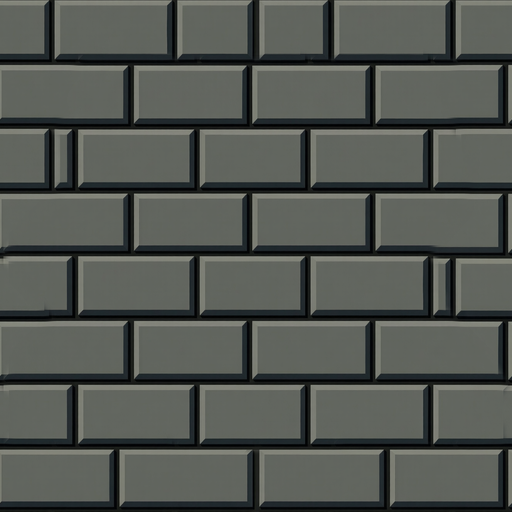
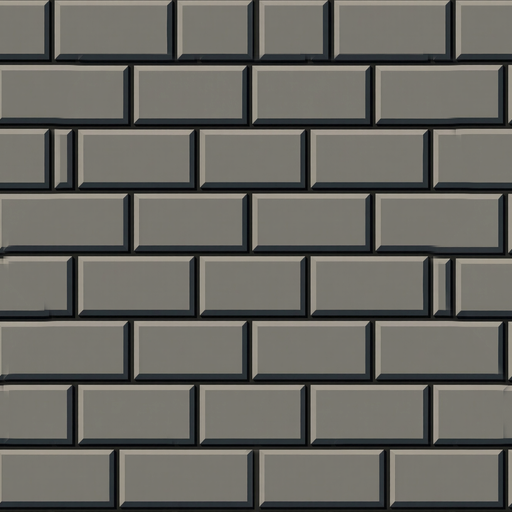
four tiles graded as the castle's was (Jeff, 2026-10-19: "tone 8 approved, good improvement"; the coordinator's (2), one landing): each toward its capsule-day colour (Client3D's WALL_LOOKS, FLOOR_SWATCHES, ROOF_SWATCH) per channel in linear light at the castle's lit level, never darker, a soft shoul

Changed region(s): [[0.0, 0.0, 1.0, 1.0]]

diff --git a/THIRD_PARTY.md b/THIRD_PARTY.md
@@ -16,7 +16,7 @@ also writes `docs/art_status.md`; `art_kit_test` fails while either is out of da
 |--------|---------|-------|---------------------|
 | [Castle Kit 2.0, Kenney](https://kenney.nl/assets/castle-kit) | CC0 1.0 (`art/kenney-castle/License.txt`) | `art/kenney-castle/Models/GLB format/` | none now |
 
-Slots whose own art came from someone else: material.wall.castle (art-gen, re-graded by art-kit, own), floor.castle (art-gen, own), wall.castle.straight (art-gen, fitted by art-kit, own), wall.castle.straight_low (art-gen, fitted by art-kit, own), wall.castle.straight_tall (art-gen, fitted by art-kit, own), wall.castle.end (art-gen, fitted by art-kit, own), wall.castle.end_low (art-gen, fitted by art-kit, own), wall.castle.end_tall (art-gen, fitted by art-kit, own), wall.castle.corner (art-gen, fitted by art-kit, own), wall.castle.corner_low (art-gen, fitted by art-kit, own), wall.castle.corner_tall (art-gen, fitted by art-kit, own), wall.castle.t (art-gen, fitted by art-kit, own), wall.castle.t_low (art-gen, fitted by art-kit, own), wall.castle.t_tall (art-gen, fitted by art-kit, own), wall.castle.cross (art-gen, fitted by art-kit, own), wall.castle.cross_low (art-gen, fitted by art-kit, own), wall.castle.cross_tall (art-gen, fitted by art-kit, own), wall.castle.post (art-gen, fitted by art-kit, own), wall.castle.post_low (art-gen, fitted by art-kit, own), wall.castle.post_tall (art-gen, fitted by art-kit, own), wall.castle.window (art-gen, fitted by art-kit, own), wall.castle.straight_ruined (art-gen, fitted by art-kit, own), wall.castle.end_ruined (art-gen, fitted by art-kit, own), wall.castle.rubble (art-gen, fitted by art-kit, own), material.wall.wood (art-gen, own), material.roof.shingle (art-gen, procedural (no model), own), material.roof.thatch (art-kit, procedural, own), roof.thatch.ridge (art-kit, by hand, own), roof.thatch.eave (art-kit, by hand, own), roof.shingle.ridge (art-gen, fitted by art-kit, own), roof.shingle.end (art-gen, fitted by art-kit, own), roof.shingle.broken (art-kit, own), chimney.stone (art-kit, by hand, own), porch.timber (art-kit, by hand, own), porch.timber_wide (art-kit, by hand, own), frame.cruck (art-kit, by hand, own), floor.wood (art-gen, own), wall.wood.straight (art-gen, fitted by art-kit, own), wall.wood.end (art-gen, fitted by art-kit, own), wall.wood.corner (art-gen, fitted by art-kit, own), wall.wood.t (art-gen, fitted by art-kit, own), wall.wood.cross (art-gen, fitted by art-kit, own), wall.wood.post (art-gen, fitted by art-kit, own), wall.wood.window (art-gen, fitted by art-kit, own), wall.wood.straight_ruined (art-gen, fitted by art-kit, own), wall.wood.rubble (art-gen, fitted by art-kit, own), material.wall.stone (art-gen, own), floor.stone (art-gen, own), wall.stone.straight (art-gen, fitted by art-kit, own), wall.stone.end (art-gen, fitted by art-kit, own), wall.stone.corner (art-gen, fitted by art-kit, own), wall.stone.t (art-gen, fitted by art-kit, own), wall.stone.cross (art-gen, fitted by art-kit, own), wall.stone.post (art-gen, fitted by art-kit, own), wall.stone.straight_tall (art-gen, fitted by art-kit, own), wall.stone.end_tall (art-gen, fitted by art-kit, own), wall.stone.corner_tall (art-gen, fitted by art-kit, own), wall.stone.t_tall (art-gen, fitted by art-kit, own), wall.stone.cross_tall (art-gen, fitted by art-kit, own), wall.stone.post_tall (art-gen, fitted by art-kit, own), wall.stone.straight_low (art-gen, fitted by art-kit, own), wall.stone.end_low (art-gen, fitted by art-kit, own), wall.stone.post_low (art-gen, fitted by art-kit, own), wall.stone.window (art-gen, fitted by art-kit, own), wall.stone.straight_ruined (art-gen, fitted by art-kit, own), wall.stone.end_ruined (art-gen, fitted by art-kit, own), wall.stone.rubble (art-gen, fitted by art-kit, own), material.wall.cave (art-gen, own), floor.cave (art-gen, own), wall.cave.end (art-gen, fitted by art-kit, own), wall.cave.pillar (art-gen, fitted by art-kit, own), wall.cave.rubble (art-gen, fitted by art-kit, own), wall.castle.tower (art-gen, fitted by art-kit, own), wall.stone.tower (art-gen, fitted by art-kit, own), wall.wood.tower (art-gen, fitted by art-kit, own), door.single (art-kit, own), tree.broadleaf (art-gen, fitted by art-kit, own), tree.small (art-gen, fitted by art-kit (variant 1); art-kit by hand (2, 3), own), tree.pine (art-gen, fitted by art-kit, own), tree.pine_stand (art-kit, from tree.pine's art-gen variants, own), rock.small (art-gen, fitted by art-kit, own), scatter.tuft (art-gen, fitted by art-kit, own), scatter.flower (art-kit, by hand to art-gen's c4, own), scatter.stone (art-gen, fitted by art-kit, own), scatter.root (art-gen, fitted by art-kit, own), prop.crate (art-kit, by hand, own), prop.chest (art-kit, by hand, own), rock.boulder (art-gen, fitted by art-kit, own), prop.cart (art-gen, fitted by art-kit, own), building.hut (art-kit, by hand, own), building.house (art-gen, fitted by art-kit, own), building.shed (art-gen, fitted by art-kit, own), building.well (art-kit, by hand, own), door.double (art-gen, fitted by art-kit, own), door.gate (art-gen, fitted by art-kit, own), door.portcullis (art-gen, fitted by art-kit, own), door.trapdoor (art-gen, fitted by art-kit, own), tree.dead (art-gen, fitted by art-kit, own), tree.stump (art-gen, cleaned up by art-kit, own), tree.log (art-gen, fitted by art-kit, own), plant.bush (art-gen, fitted by art-kit, own), plant.fern (art-gen, fitted by art-kit, own), scatter.reeds (art-kit, by hand to art-gen's c1, own), rock.large (art-gen, fitted by art-kit, own), prop.barrel (art-kit, by hand, own), prop.torch (art-gen, fitted by art-kit, own), prop.torch_post (art-kit, by hand, own), prop.lantern (art-gen, fitted by art-kit, own), prop.campfire (art-gen, fitted by art-kit, own), prop.fence (art-gen, fitted by art-kit, own), prop.fence_post (art-gen, fitted by art-kit, own), prop.stairs (art-gen, fitted by art-kit, own), prop.table (art-kit, by hand, own), prop.bench (art-gen, fitted by art-kit, own), prop.bed (art-kit, by hand, own), prop.sack (art-gen, fitted by art-kit, own), prop.grave (art-gen, fitted by art-kit, own), prop.anvil (art-gen, fitted by art-kit, own), prop.forge (art-kit, by hand, own), prop.bookshelf (art-kit, by hand, own), prop.market_stall (art-gen, fitted by art-kit, own), prop.signpost (art-kit, by hand, own), prop.banner (art-gen, fitted by art-kit, own), prop.tent (art-gen, fitted by art-kit, own), prop.palisade (art-gen, fitted by art-kit, own), prop.cage (art-gen, fitted by art-kit, own), prop.bridge (art-gen, fitted by art-kit, own), bridge.wood.deck (art-kit, by hand, own), bridge.wood.rail (art-kit, by hand, own), bridge.wood.end (art-kit, by hand, own), prop.ladder (art-gen, fitted by art-kit, own), creature.deer (Quaternius (mesh, rig and clips), pc-character (fitted to the slot, recoloured onto the palette), CC0 1.0 (Quaternius, Ultimate Animated Animal Pack: Deer, docs/licenses/quaternius-cc0_2026-10-15.txt)), creature.stag (Quaternius (mesh, rig and clips), pc-character (fitted to the slot, recoloured onto the palette), CC0 1.0 (Quaternius, Ultimate Animated Animal Pack: Stag, docs/licenses/quaternius-cc0_2026-10-15.txt)), creature.wolf (Quaternius (mesh, rig and clips), pc-character (fitted to the slot, recoloured onto the palette), CC0 1.0 (Quaternius, Ultimate Animated Animal Pack: Wolf, docs/licenses/quaternius-cc0_2026-10-15.txt)), creature.boar (art-gen (mesh), pc-character (rig fit); rig and clips Quaternius, own (mesh); CC0 1.0 (the Quaternius Pig's rig and clips, docs/licenses/quaternius-cc0_2026-10-15.txt)), creature.cow (Quaternius (mesh, rig and clips), pc-character (fitted to the slot, recoloured onto the palette), CC0 1.0 (Quaternius, Ultimate Animated Animal Pack: Cow; variant 2 Bull, docs/licenses/quaternius-cc0_2026-10-15.txt)), creature.pig (art-gen (the boar's mesh), pc-character (rig fit; made a farm pig by tools/pig_from_boar.py), own (mesh); CC0 1.0 (the Quaternius Pig's rig and clips, docs/licenses/quaternius-cc0_2026-10-15.txt)), creature.horse (Quaternius (mesh, rig and clips), pc-character (fitted to the slot, recoloured onto the palette), CC0 1.0 (Quaternius, Ultimate Animated Animal Pack: Horse; variant 2 Horse_White, docs/licenses/quaternius-cc0_2026-10-15.txt)), creature.donkey (Quaternius (mesh, rig and clips), pc-character (fitted to the slot, recoloured onto the palette), CC0 1.0 (Quaternius, Ultimate Animated Animal Pack: Donkey, docs/licenses/quaternius-cc0_2026-10-15.txt)), creature.dog (Quaternius (mesh, rig and clips), pc-character (fitted to the slot, recoloured onto the palette), CC0 1.0 (Quaternius, Ultimate Animated Animal Pack: Husky; variant 2 ShibaInu, docs/licenses/quaternius-cc0_2026-10-15.txt)), creature.rabbit (art-gen (mesh), pc-character (rig and clips), own), creature.orc (art-gen (mesh and paint), pc-character (rig fit), own (mesh and paint); CC0 1.0 (the UAL skeleton and clips, Quaternius)), creature.kobold (art-gen (mesh and paint), pc-character (rig fit), own (mesh and paint); CC0 1.0 (the UAL skeleton and clips, Quaternius)), ground.dirt (art-kit, procedural, own), ground.sand (art-gen, procedural, own), fx.arrow (art-kit, own), ground.needles (art-gen, procedural (no model), own), material.rock (art-gen, own), item.antlers (art-gen, fitted by art-kit, own), item.arrows (art-gen, procedural (no model); fitted by art-kit, own), item.arrows_barbed (art-gen, procedural (no model); fitted by art-kit, own), item.arrows_flame (art-gen, procedural (no model); fitted by art-kit, own), item.axe_head (art-gen, fitted by art-kit, own), item.bandaging_kit (art-gen, fitted by art-kit, own), item.bow (art-kit, by hand from art-gen's c2, own), item.cloth_bolt (art-gen, fitted by art-kit, own), item.coin_purse (art-gen, fitted by art-kit, own), item.dagger (art-gen, fitted by art-kit, own), item.food_sack (art-gen, fitted by art-kit, own), item.giant_axe (art-gen, fitted by art-kit, own), item.hammer (art-gen, fitted by art-kit, own), item.herbs (art-kit, by hand, own), item.hide (art-gen, fitted by art-kit, own), item.knife (art-gen, fitted by art-kit, own), item.meat (art-gen, fitted by art-kit, own), item.nails (art-gen, fitted by art-kit, own), item.ore_sack (art-gen, fitted by art-kit, own), item.ration (art-gen, fitted by art-kit, own), item.remedy (art-kit, by hand, own), item.shield (art-gen, fitted by art-kit, own), item.silver_ring (art-kit, by hand, own), item.spear (art-gen, fitted by art-kit, own), item.spice (art-kit, by hand, own), item.sword (art-gen, fitted by art-kit, own), item.tusks (art-gen, fitted by art-kit, own), item.wine (art-kit, by hand, own), item.wood_bundle (art-gen, fitted by art-kit, own).
+Slots whose own art came from someone else: material.wall.castle (art-gen, re-graded by art-kit, own), floor.castle (art-gen, own), wall.castle.straight (art-gen, fitted by art-kit, own), wall.castle.straight_low (art-gen, fitted by art-kit, own), wall.castle.straight_tall (art-gen, fitted by art-kit, own), wall.castle.end (art-gen, fitted by art-kit, own), wall.castle.end_low (art-gen, fitted by art-kit, own), wall.castle.end_tall (art-gen, fitted by art-kit, own), wall.castle.corner (art-gen, fitted by art-kit, own), wall.castle.corner_low (art-gen, fitted by art-kit, own), wall.castle.corner_tall (art-gen, fitted by art-kit, own), wall.castle.t (art-gen, fitted by art-kit, own), wall.castle.t_low (art-gen, fitted by art-kit, own), wall.castle.t_tall (art-gen, fitted by art-kit, own), wall.castle.cross (art-gen, fitted by art-kit, own), wall.castle.cross_low (art-gen, fitted by art-kit, own), wall.castle.cross_tall (art-gen, fitted by art-kit, own), wall.castle.post (art-gen, fitted by art-kit, own), wall.castle.post_low (art-gen, fitted by art-kit, own), wall.castle.post_tall (art-gen, fitted by art-kit, own), wall.castle.window (art-gen, fitted by art-kit, own), wall.castle.straight_ruined (art-gen, fitted by art-kit, own), wall.castle.end_ruined (art-gen, fitted by art-kit, own), wall.castle.rubble (art-gen, fitted by art-kit, own), material.wall.wood (art-gen, own), material.roof.shingle (art-gen, procedural (no model), own), material.roof.thatch (art-kit, procedural, re-graded by art-kit, own), roof.thatch.ridge (art-kit, by hand, own), roof.thatch.eave (art-kit, by hand, own), roof.shingle.ridge (art-gen, fitted by art-kit, own), roof.shingle.end (art-gen, fitted by art-kit, own), roof.shingle.broken (art-kit, own), chimney.stone (art-kit, by hand, own), porch.timber (art-kit, by hand, own), porch.timber_wide (art-kit, by hand, own), frame.cruck (art-kit, by hand, own), floor.wood (art-gen, re-graded by art-kit, own), wall.wood.straight (art-gen, fitted by art-kit, own), wall.wood.end (art-gen, fitted by art-kit, own), wall.wood.corner (art-gen, fitted by art-kit, own), wall.wood.t (art-gen, fitted by art-kit, own), wall.wood.cross (art-gen, fitted by art-kit, own), wall.wood.post (art-gen, fitted by art-kit, own), wall.wood.window (art-gen, fitted by art-kit, own), wall.wood.straight_ruined (art-gen, fitted by art-kit, own), wall.wood.rubble (art-gen, fitted by art-kit, own), material.wall.stone (art-gen, re-graded by art-kit, own), floor.stone (art-gen, re-graded by art-kit, own), wall.stone.straight (art-gen, fitted by art-kit, own), wall.stone.end (art-gen, fitted by art-kit, own), wall.stone.corner (art-gen, fitted by art-kit, own), wall.stone.t (art-gen, fitted by art-kit, own), wall.stone.cross (art-gen, fitted by art-kit, own), wall.stone.post (art-gen, fitted by art-kit, own), wall.stone.straight_tall (art-gen, fitted by art-kit, own), wall.stone.end_tall (art-gen, fitted by art-kit, own), wall.stone.corner_tall (art-gen, fitted by art-kit, own), wall.stone.t_tall (art-gen, fitted by art-kit, own), wall.stone.cross_tall (art-gen, fitted by art-kit, own), wall.stone.post_tall (art-gen, fitted by art-kit, own), wall.stone.straight_low (art-gen, fitted by art-kit, own), wall.stone.end_low (art-gen, fitted by art-kit, own), wall.stone.post_low (art-gen, fitted by art-kit, own), wall.stone.window (art-gen, fitted by art-kit, own), wall.stone.straight_ruined (art-gen, fitted by art-kit, own), wall.stone.end_ruined (art-gen, fitted by art-kit, own), wall.stone.rubble (art-gen, fitted by art-kit, own), material.wall.cave (art-gen, own), floor.cave (art-gen, own), wall.cave.end (art-gen, fitted by art-kit, own), wall.cave.pillar (art-gen, fitted by art-kit, own), wall.cave.rubble (art-gen, fitted by art-kit, own), wall.castle.tower (art-gen, fitted by art-kit, own), wall.stone.tower (art-gen, fitted by art-kit, own), wall.wood.tower (art-gen, fitted by art-kit, own), door.single (art-kit, own), tree.broadleaf (art-gen, fitted by art-kit, own), tree.small (art-gen, fitted by art-kit (variant 1); art-kit by hand (2, 3), own), tree.pine (art-gen, fitted by art-kit, own), tree.pine_stand (art-kit, from tree.pine's art-gen variants, own), rock.small (art-gen, fitted by art-kit, own), scatter.tuft (art-gen, fitted by art-kit, own), scatter.flower (art-kit, by hand to art-gen's c4, own), scatter.stone (art-gen, fitted by art-kit, own), scatter.root (art-gen, fitted by art-kit, own), prop.crate (art-kit, by hand, own), prop.chest (art-kit, by hand, own), rock.boulder (art-gen, fitted by art-kit, own), prop.cart (art-gen, fitted by art-kit, own), building.hut (art-kit, by hand, own), building.house (art-gen, fitted by art-kit, own), building.shed (art-gen, fitted by art-kit, own), building.well (art-kit, by hand, own), door.double (art-gen, fitted by art-kit, own), door.gate (art-gen, fitted by art-kit, own), door.portcullis (art-gen, fitted by art-kit, own), door.trapdoor (art-gen, fitted by art-kit, own), tree.dead (art-gen, fitted by art-kit, own), tree.stump (art-gen, cleaned up by art-kit, own), tree.log (art-gen, fitted by art-kit, own), plant.bush (art-gen, fitted by art-kit, own), plant.fern (art-gen, fitted by art-kit, own), scatter.reeds (art-kit, by hand to art-gen's c1, own), rock.large (art-gen, fitted by art-kit, own), prop.barrel (art-kit, by hand, own), prop.torch (art-gen, fitted by art-kit, own), prop.torch_post (art-kit, by hand, own), prop.lantern (art-gen, fitted by art-kit, own), prop.campfire (art-gen, fitted by art-kit, own), prop.fence (art-gen, fitted by art-kit, own), prop.fence_post (art-gen, fitted by art-kit, own), prop.stairs (art-gen, fitted by art-kit, own), prop.table (art-kit, by hand, own), prop.bench (art-gen, fitted by art-kit, own), prop.bed (art-kit, by hand, own), prop.sack (art-gen, fitted by art-kit, own), prop.grave (art-gen, fitted by art-kit, own), prop.anvil (art-gen, fitted by art-kit, own), prop.forge (art-kit, by hand, own), prop.bookshelf (art-kit, by hand, own), prop.market_stall (art-gen, fitted by art-kit, own), prop.signpost (art-kit, by hand, own), prop.banner (art-gen, fitted by art-kit, own), prop.tent (art-gen, fitted by art-kit, own), prop.palisade (art-gen, fitted by art-kit, own), prop.cage (art-gen, fitted by art-kit, own), prop.bridge (art-gen, fitted by art-kit, own), bridge.wood.deck (art-kit, by hand, own), bridge.wood.rail (art-kit, by hand, own), bridge.wood.end (art-kit, by hand, own), prop.ladder (art-gen, fitted by art-kit, own), creature.deer (Quaternius (mesh, rig and clips), pc-character (fitted to the slot, recoloured onto the palette), CC0 1.0 (Quaternius, Ultimate Animated Animal Pack: Deer, docs/licenses/quaternius-cc0_2026-10-15.txt)), creature.stag (Quaternius (mesh, rig and clips), pc-character (fitted to the slot, recoloured onto the palette), CC0 1.0 (Quaternius, Ultimate Animated Animal Pack: Stag, docs/licenses/quaternius-cc0_2026-10-15.txt)), creature.wolf (Quaternius (mesh, rig and clips), pc-character (fitted to the slot, recoloured onto the palette), CC0 1.0 (Quaternius, Ultimate Animated Animal Pack: Wolf, docs/licenses/quaternius-cc0_2026-10-15.txt)), creature.boar (art-gen (mesh), pc-character (rig fit); rig and clips Quaternius, own (mesh); CC0 1.0 (the Quaternius Pig's rig and clips, docs/licenses/quaternius-cc0_2026-10-15.txt)), creature.cow (Quaternius (mesh, rig and clips), pc-character (fitted to the slot, recoloured onto the palette), CC0 1.0 (Quaternius, Ultimate Animated Animal Pack: Cow; variant 2 Bull, docs/licenses/quaternius-cc0_2026-10-15.txt)), creature.pig (art-gen (the boar's mesh), pc-character (rig fit; made a farm pig by tools/pig_from_boar.py), own (mesh); CC0 1.0 (the Quaternius Pig's rig and clips, docs/licenses/quaternius-cc0_2026-10-15.txt)), creature.horse (Quaternius (mesh, rig and clips), pc-character (fitted to the slot, recoloured onto the palette), CC0 1.0 (Quaternius, Ultimate Animated Animal Pack: Horse; variant 2 Horse_White, docs/licenses/quaternius-cc0_2026-10-15.txt)), creature.donkey (Quaternius (mesh, rig and clips), pc-character (fitted to the slot, recoloured onto the palette), CC0 1.0 (Quaternius, Ultimate Animated Animal Pack: Donkey, docs/licenses/quaternius-cc0_2026-10-15.txt)), creature.dog (Quaternius (mesh, rig and clips), pc-character (fitted to the slot, recoloured onto the palette), CC0 1.0 (Quaternius, Ultimate Animated Animal Pack: Husky; variant 2 ShibaInu, docs/licenses/quaternius-cc0_2026-10-15.txt)), creature.rabbit (art-gen (mesh), pc-character (rig and clips), own), creature.orc (art-gen (mesh and paint), pc-character (rig fit), own (mesh and paint); CC0 1.0 (the UAL skeleton and clips, Quaternius)), creature.kobold (art-gen (mesh and paint), pc-character (rig fit), own (mesh and paint); CC0 1.0 (the UAL skeleton and clips, Quaternius)), ground.dirt (art-kit, procedural, own), ground.sand (art-gen, procedural, own), fx.arrow (art-kit, own), ground.needles (art-gen, procedural (no model), own), material.rock (art-gen, own), item.antlers (art-gen, fitted by art-kit, own), item.arrows (art-gen, procedural (no model); fitted by art-kit, own), item.arrows_barbed (art-gen, procedural (no model); fitted by art-kit, own), item.arrows_flame (art-gen, procedural (no model); fitted by art-kit, own), item.axe_head (art-gen, fitted by art-kit, own), item.bandaging_kit (art-gen, fitted by art-kit, own), item.bow (art-kit, by hand from art-gen's c2, own), item.cloth_bolt (art-gen, fitted by art-kit, own), item.coin_purse (art-gen, fitted by art-kit, own), item.dagger (art-gen, fitted by art-kit, own), item.food_sack (art-gen, fitted by art-kit, own), item.giant_axe (art-gen, fitted by art-kit, own), item.hammer (art-gen, fitted by art-kit, own), item.herbs (art-kit, by hand, own), item.hide (art-gen, fitted by art-kit, own), item.knife (art-gen, fitted by art-kit, own), item.meat (art-gen, fitted by art-kit, own), item.nails (art-gen, fitted by art-kit, own), item.ore_sack (art-gen, fitted by art-kit, own), item.ration (art-gen, fitted by art-kit, own), item.remedy (art-kit, by hand, own), item.shield (art-gen, fitted by art-kit, own), item.silver_ring (art-kit, by hand, own), item.spear (art-gen, fitted by art-kit, own), item.spice (art-kit, by hand, own), item.sword (art-gen, fitted by art-kit, own), item.tusks (art-gen, fitted by art-kit, own), item.wine (art-kit, by hand, own), item.wood_bundle (art-gen, fitted by art-kit, own).
 
 <!-- end of art slots -->
 

diff --git a/docs/art_picks.md b/docs/art_picks.md
@@ -9,6 +9,7 @@ through the coordinator as a redo.
 
 | Date | Slot | Pick | Note |
 |---|---|---|---|
+| 2026-10-19 | material.wall.stone, floor.stone, floor.wood, material.roof.thatch | re-graded, applied | Jeff, 2026-10-19: "tone 8 approved, good improvement"; the coordinator's (2), the castle's grade on the other tiles: each tile graded toward its capsule-day colour (Client3D's WALL_LOOKS, FLOOR_SWATCHES, ROOF_SWATCH) as the castle's was, never darker: the stone wall lifted and its green tint gone, still grey; the stone floor's blue-grey neutral and lifted; the wood floor and thatch warmer. Left as they are (within a few points of their old colour already): material.wall.wood, material.wall.cave, floor.cave, material.roof.shingle, material.rock; floor.castle isn't drawn (the courtyard is the ground's stone). Before/after: C:\dev\review\tone\wall.stone-before-after.png; C:\dev\review\tone\floor.stone-before-after.png; C:\dev\review\tone\floor.wood-before-after.png; C:\dev\review\tone\roof.thatch-before-after.png |
 | 2026-10-19 | material.wall.castle, wall.castle.* | re-graded, applied | Jeff, 2026-10-19: "tone 8 approved, good improvement" (terrain's castle-8-final.png, with terrain's grass and dirt lift): the wall tile re-graded from grey brick to the v0.1.100 sandstone, and the castle's posts, caps, coping, rubble, tower and window moved from row 1's grey stone to row 3's sandstone so they match; rocks keep row 1. Row 3 rather than a new row: a tenth row would move every piece's UVs, and row 0 is the animals' and wall.stone's. Before/after: C:\dev\review\tone\castle-wall-before-after.png |
 | 2026-10-19 | building.well | vetoed, by hand | Jeff, 2026-10-19: "we owe the town well a hand made pass - its auto slop": art-gen's c3 (applied 2026-10-18) read as lumpy stone with splintered posts; rebuilt by hand in big clean planes: coursed stone ring, flat coping, water inside, posts, crossbeam, windlass with crank, rope and bucket, a pitched roof; same slot and size. Before/after: C:\dev\review\tone\well-before-after.png |
 | 2026-10-19 | ground.dirt | vetoed, remade | Jeff: "dirt having polys is not what i meant by elevation .. i meant hills and valleys and ridges": the flat Voronoi cells of art-gen's p1 read as polys at the game camera; remade soft and mottled, no hard edges, at the old mean colour (the coordinator's pick, beside terrain's 524 patch outlines); old against new: C:\dev\review\tone\dirt\dirt-old-vs-soft.png; pebbles can come back as a variant if it reads too plain |

diff --git a/docs/art_status.md b/docs/art_status.md
@@ -65,8 +65,8 @@ Drawn as a grey box (a texture slot: terrain's procedural colour).
 | `door.trapdoor` | 1 | art-gen, fitted by art-kit | own | 2026-10-18 |
 | `floor.castle` | 1 | art-gen | own | 2026-10-18 |
 | `floor.cave` | 1 | art-gen | own | 2026-10-18 |
-| `floor.stone` | 1 | art-gen | own | 2026-10-18 |
-| `floor.wood` | 1 | art-gen | own | 2026-10-18 |
+| `floor.stone` | 1 | art-gen, re-graded by art-kit | own | 2026-10-19 |
+| `floor.wood` | 1 | art-gen, re-graded by art-kit | own | 2026-10-19 |
 | `frame.cruck` | 1 | art-kit, by hand | own | 2026-10-18 |
 | `fx.arrow` | 3 | art-kit | own | 2026-10-17 |
 | `ground.dirt` | 1 | art-kit, procedural | own | 2026-10-19 |
@@ -103,10 +103,10 @@ Drawn as a grey box (a texture slot: terrain's procedural colour).
 | `item.wood_bundle` | 1 | art-gen, fitted by art-kit | own | 2026-10-18 |
 | `material.rock` | 1 | art-gen | own | 2026-10-18 |
 | `material.roof.shingle` | 1 | art-gen, procedural (no model) | own | 2026-10-17 |
-| `material.roof.thatch` | 1 | art-kit, procedural | own | 2026-10-18 |
+| `material.roof.thatch` | 1 | art-kit, procedural, re-graded by art-kit | own | 2026-10-19 |
 | `material.wall.castle` | 1 | art-gen, re-graded by art-kit | own | 2026-10-19 |
 | `material.wall.cave` | 1 | art-gen | own | 2026-10-18 |
-| `material.wall.stone` | 1 | art-gen | own | 2026-10-18 |
+| `material.wall.stone` | 1 | art-gen, re-graded by art-kit | own | 2026-10-19 |
 | `material.wall.wood` | 1 | art-gen | own | 2026-10-18 |
 | `plant.bush` | 1 | art-gen, fitted by art-kit | own | 2026-10-18 |
 | `plant.fern` | 1 | art-gen, fitted by art-kit | own | 2026-10-18 |

diff --git a/CHANGELOG.md b/CHANGELOG.md
@@ -7,6 +7,7 @@ notes (decision 324).
 
 ## Unreleased
 
+- Brighter, cleaner stone and warmer wood (Jeff: "tone 8 approved, good improvement"; the castle walls' grade carried on): stone walls lighter and truly grey, stone floors no longer blue-grey, wood floors and thatch warmer; client art only.
 - The minimap and the big map turn with the view, so up on the map is up on the screen, as the compass already turns; the arrow on them points the way your body faces.
 - A level link can be sealed: it opens only for a player who carries its mark (the draugr's, once he is beaten; a thing enemy-ai gives), else "The way is sealed."; a companion crosses with her marked player; the world map and routes treat it as closed, so no raiding group walks it. The console's `mark <player> <mark>` (or `-<mark>`) puts a mark on or takes it off. For the barrow's shortcut from the temple (Jeff's crypt page).
 - Landing tests leave no Python cache folder behind (539 amended); tools only.
